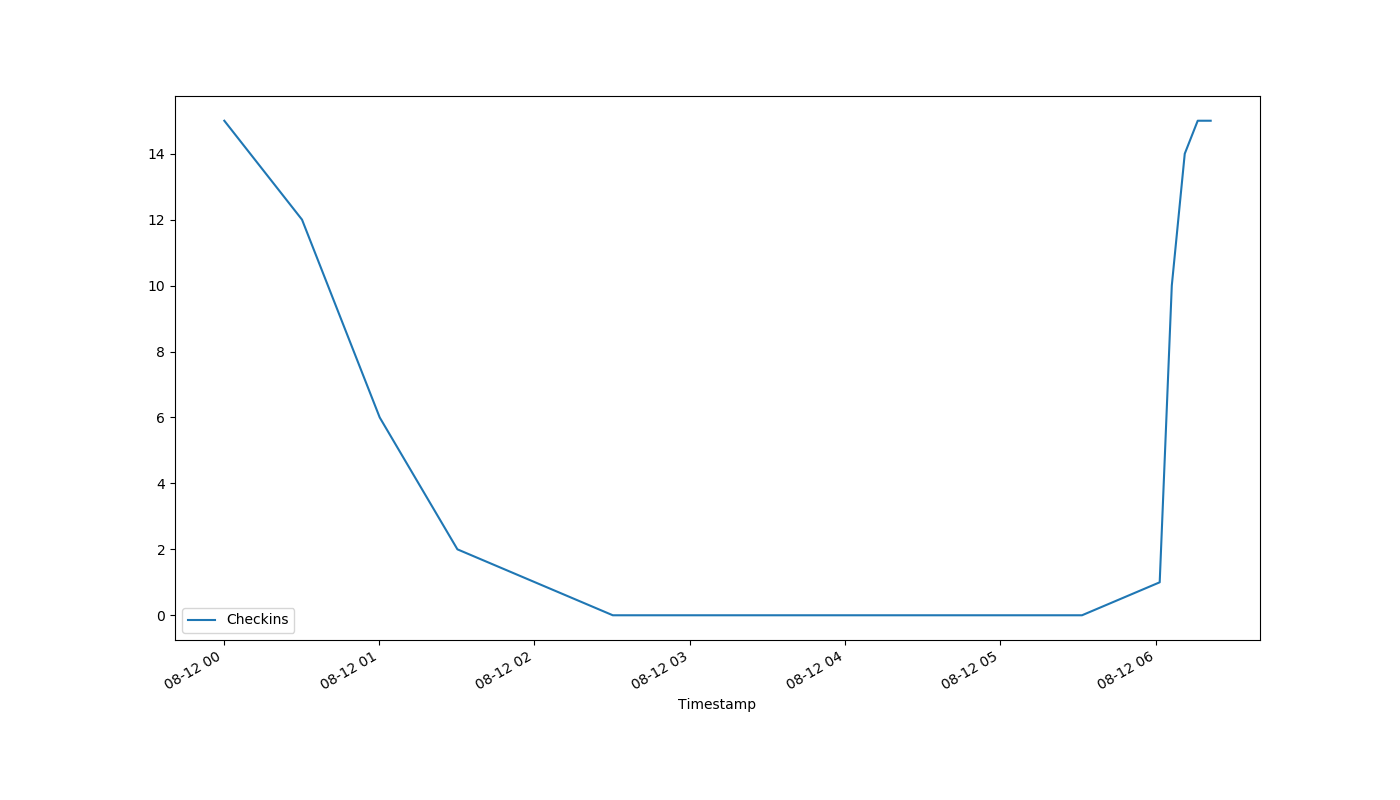
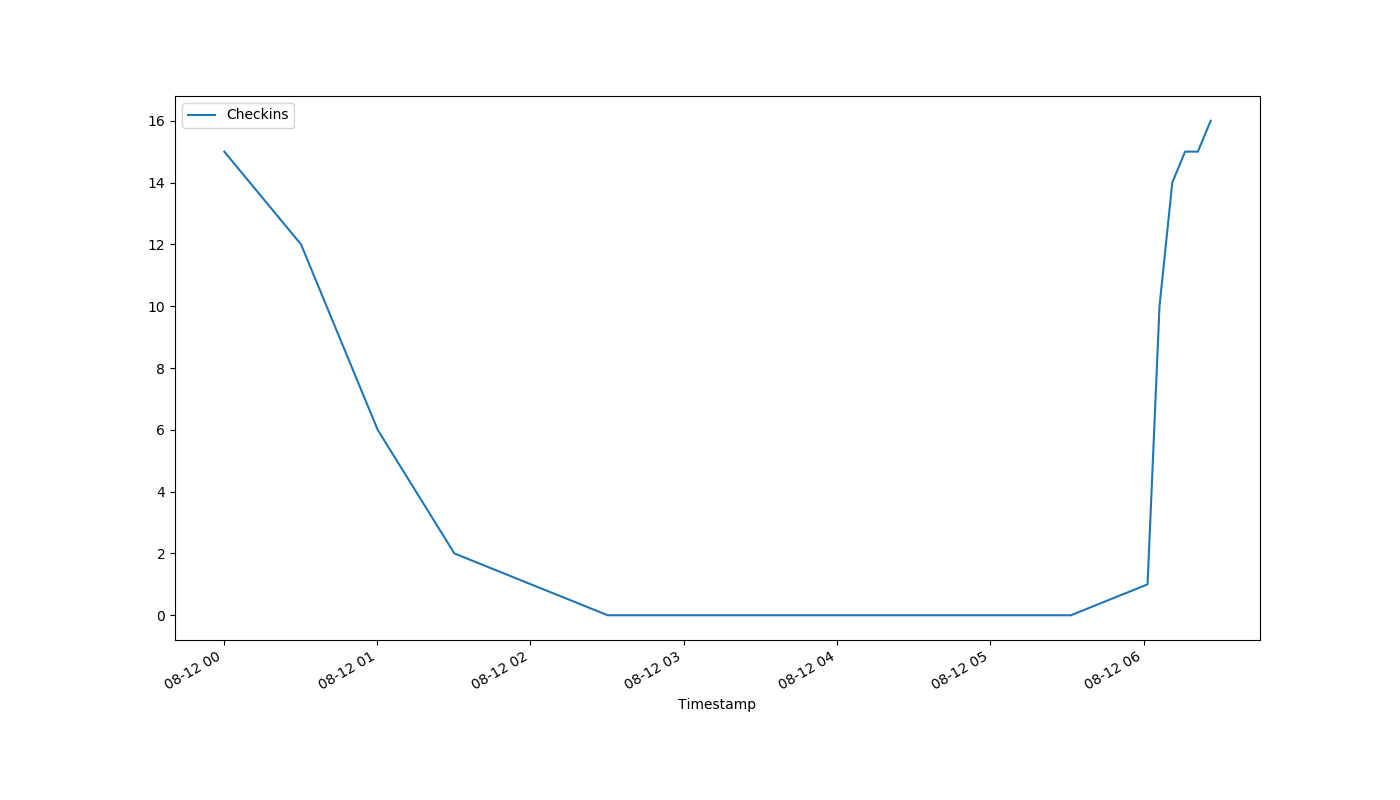
auto-Aug-12-06:27:29

diff --git a/index.html b/index.html
@@ -1,1 +1,1 @@
-<!DOCTYPE html><html><head><meta http-equiv="refresh" content="30"><link rel='stylesheet' href='holmcurrent.css'></head><body><p id='count'>15</p><div id='graph-wrap'><img id='graph' src='holmgraph-Aug-12.png'></div><p id='updated'>Last updated 06:22:11 / 06:21:11</p></body></html>
+<!DOCTYPE html><html><head><meta http-equiv="refresh" content="30"><link rel='stylesheet' href='holmcurrent.css'></head><body><p id='count'>16</p><div id='graph-wrap'><img id='graph' src='holmgraph-Aug-12.png'></div><p id='updated'>Last updated 06:27:11 / 06:26:12</p></body></html>
